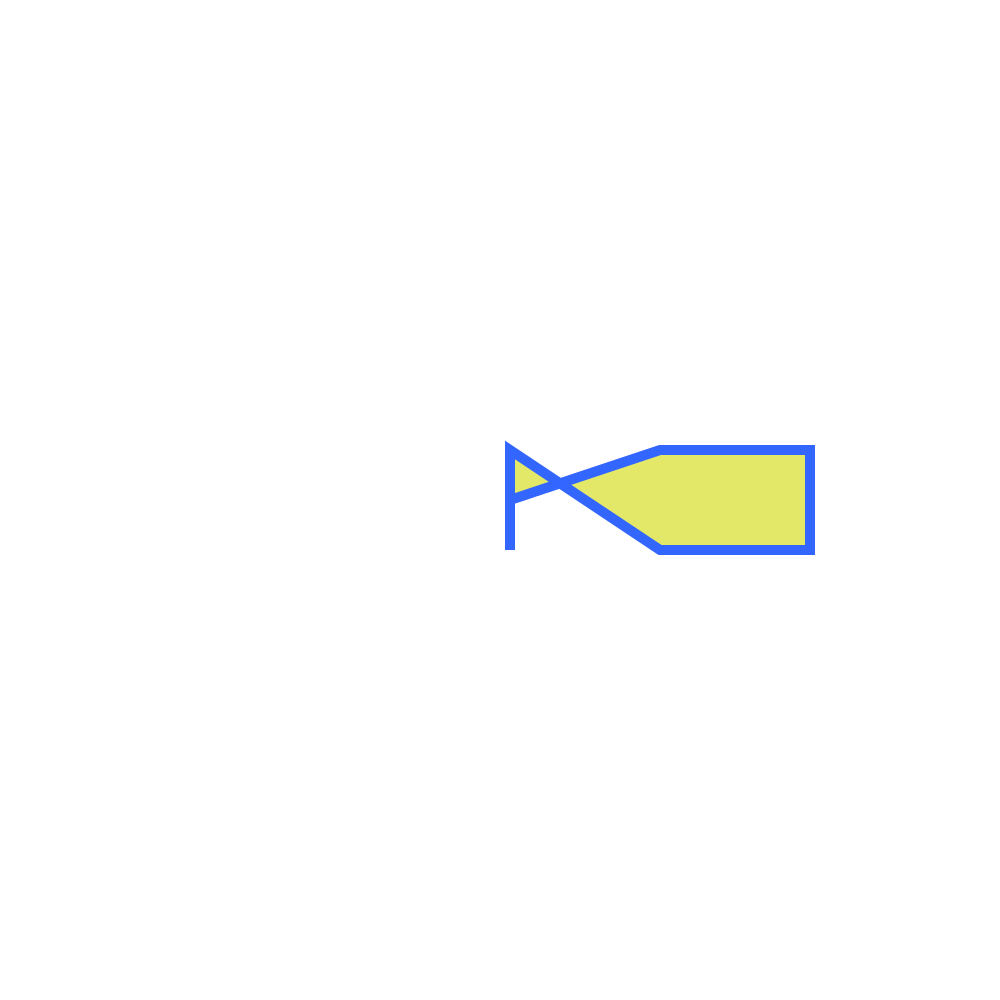
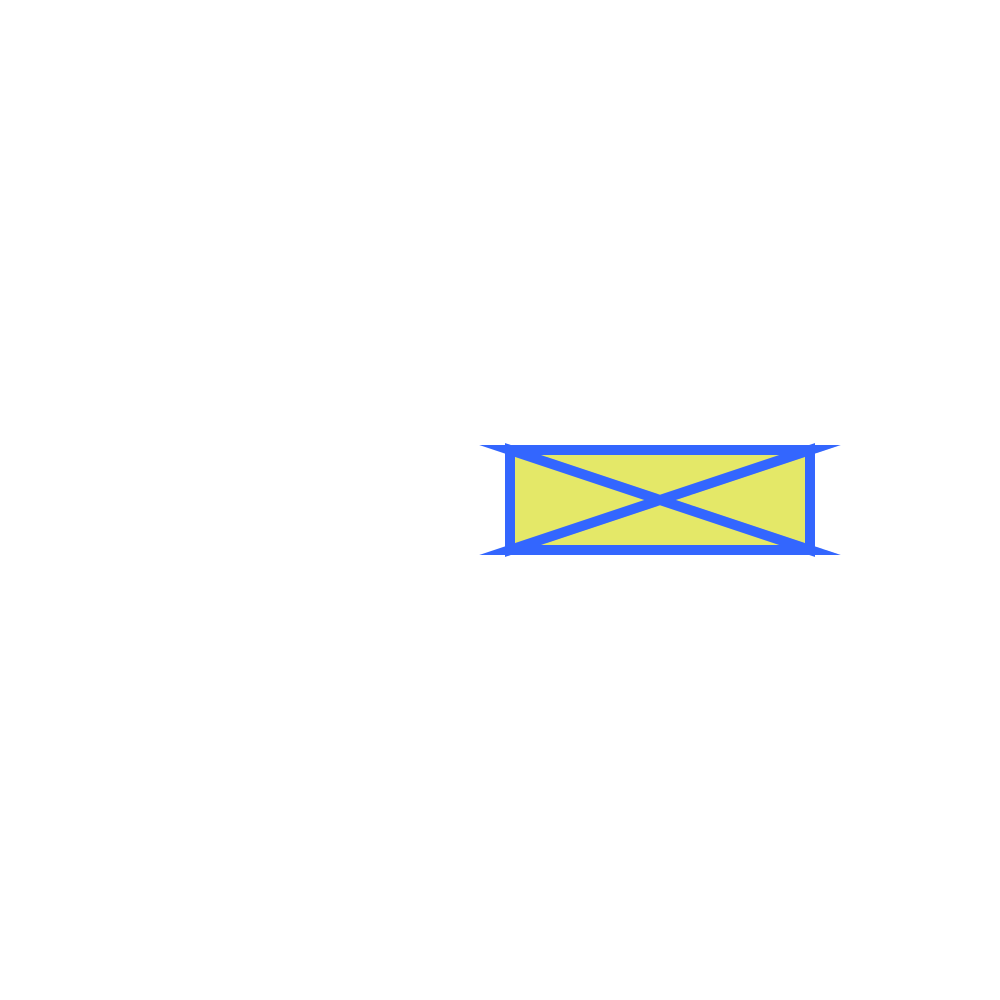
Remove Point in Segment

Changed region(s): [[0.496, 0.434, 0.837, 0.558], [0.744, 0.527, 0.837, 0.558]]

diff --git a/src/function/Geometry3D.cpp b/src/function/Geometry3D.cpp
@@ -50,7 +50,7 @@ Plane_3 createPlane3(Point p0, Point p1, Point p2) {
   Plane_3 plane(point0, point1, point2);
   return plane;
 }
-typedef Kernel::Vector_3 Vector_3;
+
 Plane_3 createPlane3Z(int z) {
   Point_3 point_on_plane(0, 0, z);
 
@@ -65,8 +65,10 @@ Plane_3 createPlane3Z(int z) {
 }
 
 Segment_3 intersection2Plane(Point p0, Point p1, Point p2, Plane_3 plane2) {
-  Triangle_3 triangle =
-      Triangle_3(convertToPoint_3(p0), convertToPoint_3(p1), convertToPoint_3(p2));
+  Point_3 p3_0 = convertToPoint_3(p0);
+  Point_3 p3_1 = convertToPoint_3(p1);
+  Point_3 p3_2 = convertToPoint_3(p2);
+  Triangle_3 triangle = Triangle_3(p3_0, p3_1, p3_2);
   // Thực hiện phép giao cắt giữa hai mặt phẳng
   Object result = CGAL::intersection(triangle, plane2);
   // Kiểm tra kết quả và trả về Segment_3 nếu phép giao cắt là một đoạn thẳng
@@ -100,9 +102,72 @@ pair<Point, Point> intersectionZ(vector<Point> plane, int z) {
     auto pointTarget = convertFromPoint_3(intersectionSegment.target());
     return pair<Point, Point>(pointSource, pointTarget);
   } catch (const std::runtime_error &e) {
-    throw runtime_error("intersectionZ: An error occurred: " + std::string(e.what()));
+    throw runtime_error("intersectionZ: An error occurred: { " + std::string(e.what()) + " }");
   }
   return pair<Point, Point>(Point(0, 0, 0), Point(0, 0, 0));
+}
+
+// Return TRUE nếu: Điểm X nằm trên đoạn thẳng AB
+// Các trường hợp return FALSE: X không nằm trên đoạn AB, X trùng với A hoặc B
+bool isPointsInSegment(Point x, Point a, Point b) {
+  // Kiểm tra xem X có trùng với A hoặc B không
+  if ((x.x == a.x && x.y == a.y && x.z == a.z) || (x.x == b.x && x.y == b.y && x.z == b.z)) {
+    return false;  // X trùng với A hoặc B
+  }
+
+  // Tính vectơ AX và AB
+  Point ax = {x.x - a.x, x.y - a.y, x.z - a.z};
+  Point ab = {b.x - a.x, b.y - a.y, b.z - a.z};
+
+  // Tính tích vô hướng (dot product) và tích chéo (cross product) để kiểm tra cùng phương
+  float dotProduct = ax.x * ab.x + ax.y * ab.y + ax.z * ab.z;
+  Point crossProduct = {ax.y * ab.z - ax.z * ab.y, ax.z * ab.x - ax.x * ab.z,
+                        ax.x * ab.y - ax.y * ab.x};
+
+  // Kiểm tra tích chéo bằng 0 (cùng phương) và dot product dương (cùng hướng)
+  if (crossProduct.x == 0 && crossProduct.y == 0 && crossProduct.z == 0 && dotProduct > 0) {
+    // Kiểm tra X có nằm giữa A và B không
+    float abLengthSquared = ab.x * ab.x + ab.y * ab.y + ab.z * ab.z;
+    return dotProduct < abLengthSquared;
+  }
+
+  return false;
+}
+
+// Trả về danh sách Points sau khi {sourcePoints} đã excude các point trong {removePoints}
+vector<Point> excludePoints(vector<Point> sourcePoints, vector<Point> removePoints) {
+  std::vector<Point> result;
+
+  // Duyệt qua từng điểm trong sourcePoints
+  for (const auto &sourcePoint : sourcePoints) {
+    // Sử dụng std::find và toán tử == đã định nghĩa để kiểm tra xem sourcePoint có trong
+    // removePoints không
+    if (std::find(removePoints.begin(), removePoints.end(), sourcePoint) == removePoints.end()) {
+      // Nếu không tìm thấy điểm trong removePoints, thêm vào kết quả
+      result.push_back(sourcePoint);
+    }
+  }
+
+  return result;
+}
+
+vector<Point> findPointsInSegment(vector<Point> segmentPoints) {
+  vector<Point> output;
+  for (int ix = 0; ix < segmentPoints.size(); ix++) {
+    for (int ia = 0; ia < segmentPoints.size(); ia++) {
+      for (int ib = 0; ib < segmentPoints.size(); ib++) {
+        if (ix == ia || ix == ib || ia == ib) {
+          continue;
+        }
+
+        if (isPointsInSegment(segmentPoints[ix], segmentPoints[ia], segmentPoints[ib])) {
+          output.push_back(segmentPoints[ix]);
+        }
+      }
+    }
+  }
+
+  return output;
 }
 
 vector<Point> polygonAtZ(vector<Point> shapePoints, vector<vector<int>> faceSet, int z) {
@@ -112,8 +177,6 @@ vector<Point> polygonAtZ(vector<Point> shapePoints, vector<vector<int>> faceSet,
   for (auto face : faceSet) {
     try {
       auto facePoint = getFacePoint(shapePoints, face);
-      // cout << "facePoint ";
-      // printVectorPoints(facePoint);
       auto segmentPairPoint = intersectionZ(facePoint, z);
       auto sourcePoint = segmentPairPoint.first;
       auto targetPoint = segmentPairPoint.second;
@@ -129,6 +192,7 @@ vector<Point> polygonAtZ(vector<Point> shapePoints, vector<vector<int>> faceSet,
         output.push_back(sourcePoint);
       } else {
         cout << "\tExisted point " << sourcePoint.x << " " << sourcePoint.y << endl;
+        output.push_back(sourcePoint);
       }
 
       if (!hasExistedPoint(output, targetPoint)) {
@@ -136,11 +200,16 @@ vector<Point> polygonAtZ(vector<Point> shapePoints, vector<vector<int>> faceSet,
         output.push_back(targetPoint);
       } else {
         cout << "\tExisted point " << targetPoint.x << " " << targetPoint.y << endl;
+        output.push_back(targetPoint);
       }
 
     } catch (const std::runtime_error &e) {
       std::cerr << "polygonAtZ: An error occurred: " << e.what() << std::endl;
     }
   }
+
+  auto removePoint = findPointsInSegment(output);
+  output = excludePoints(output, removePoint);
+
   return output;
 }

diff --git a/src/function/Geometry3D.h b/src/function/Geometry3D.h
@@ -24,6 +24,7 @@ typedef Kernel::Point_3 Point_3;
 typedef CGAL::Object Object;
 // typedef CGAL::Line_3 Line_3;
 typedef CGAL::Triangle_3<Kernel> Triangle_3;
+typedef Kernel::Vector_3 Vector_3;
 
 using namespace std;
 vector<Point> polygonAtZ(vector<Point> shapePoints, vector<vector<int>> faceSet, int z);
